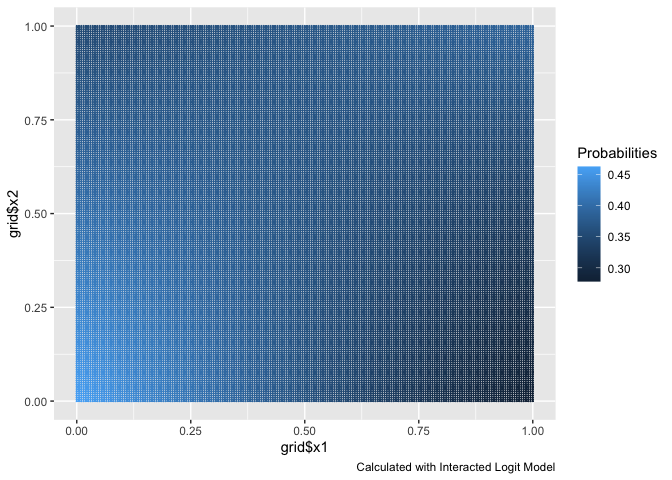
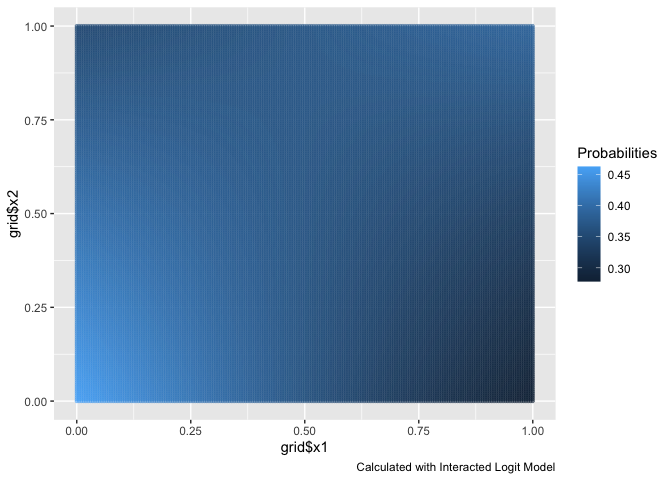
Finished up assingment.

Changed region(s): [[0.0938, 0.0312, 0.8125, 0.8438]]

diff --git a/HW4-Marrero.md b/HW4-Marrero.md
@@ -168,7 +168,7 @@ grid, and plot those probabilities.
 preds <- predict(logit_mod,grid,type = "response")
 # plot probabilities 
 ggplot(df,aes(x=grid$x1,y=grid$x2,color=preds))+
-  geom_point(size=0.08)+
+  geom_point(size=0.8, alpha = 0.5)+
   labs(color = "Probabilities", 
        caption = "Calculated with Interacted Logit Model")
 ```
@@ -194,12 +194,34 @@ roc <- function(p,y, ...){
   plot(1-specificity, sensitivity, type="l", ...)
   abline(a=0,b=1,lty=2,col=8)
 }
-
-roc(p=preds, y=df_og$y, bty="n")
 ```
 
-![](HW4-Marrero_files/figure-gfm/unnamed-chunk-11-1.png)<!-- -->
+``` r
+# calculate probabilities for in-sample logit model
+phat_logit <- predict(logit_mod, type = "response")
+
+# calculate probabilities for in-sample KNN model
+df_yno <- df_og %>% select(-y) # remove y from dataset
+phat_k10 <- apply(df_yno,1,knn_prob,x1=x1,x2=x2,y=y,k=10)
+
+# ROC plot for logit model 
+roc(p=phat_logit, y=df_og$y, bty="n")
+```
+
+![](HW4-Marrero_files/figure-gfm/unnamed-chunk-12-1.png)<!-- -->
+
+``` r
+# ROC plot for KNN (K=10) model 
+roc(p=phat_k10, y=df_og$y, bty="n")
+```
+
+![](HW4-Marrero_files/figure-gfm/unnamed-chunk-12-2.png)<!-- -->
 
 ### Commentary on Model Selection
 
-Which of these models looks better?
+The KNN model looks better than the logit probability model because
+there is more area under in-sample ROC curve, indicating that for a
+given probability threshold, the KNN model is better at correctly
+classifying y. It also appears that the KNN model improves a lot with a
+relatively small increase to the probability threshold, with 0.2 as a
+max.
